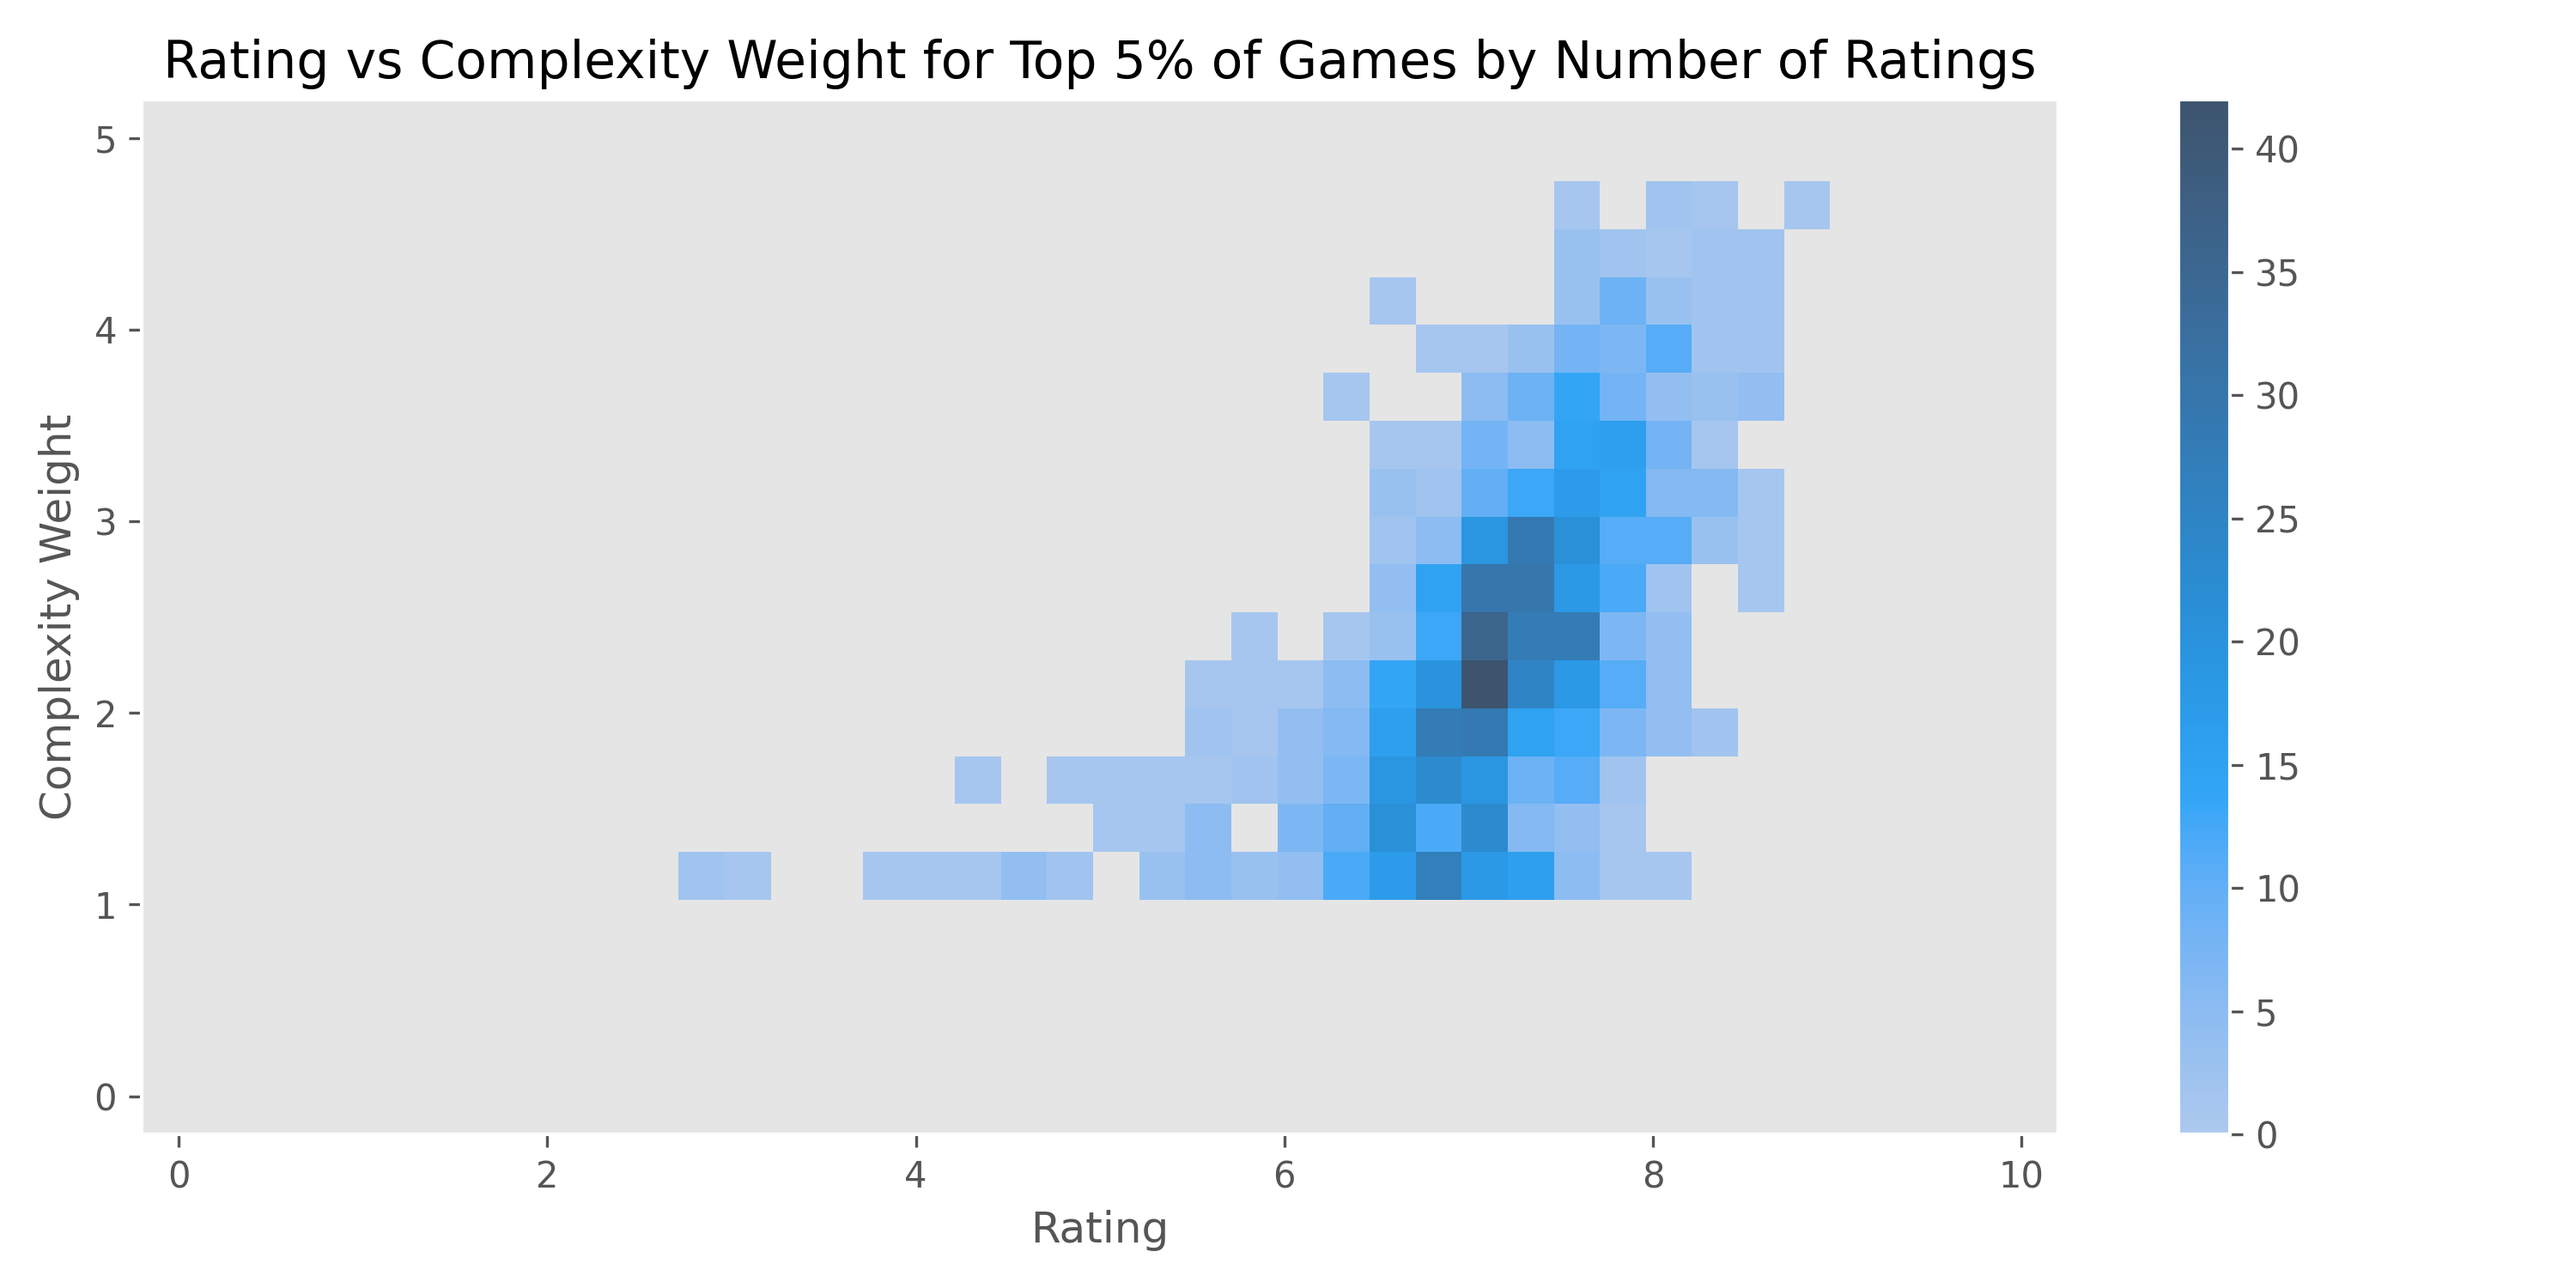
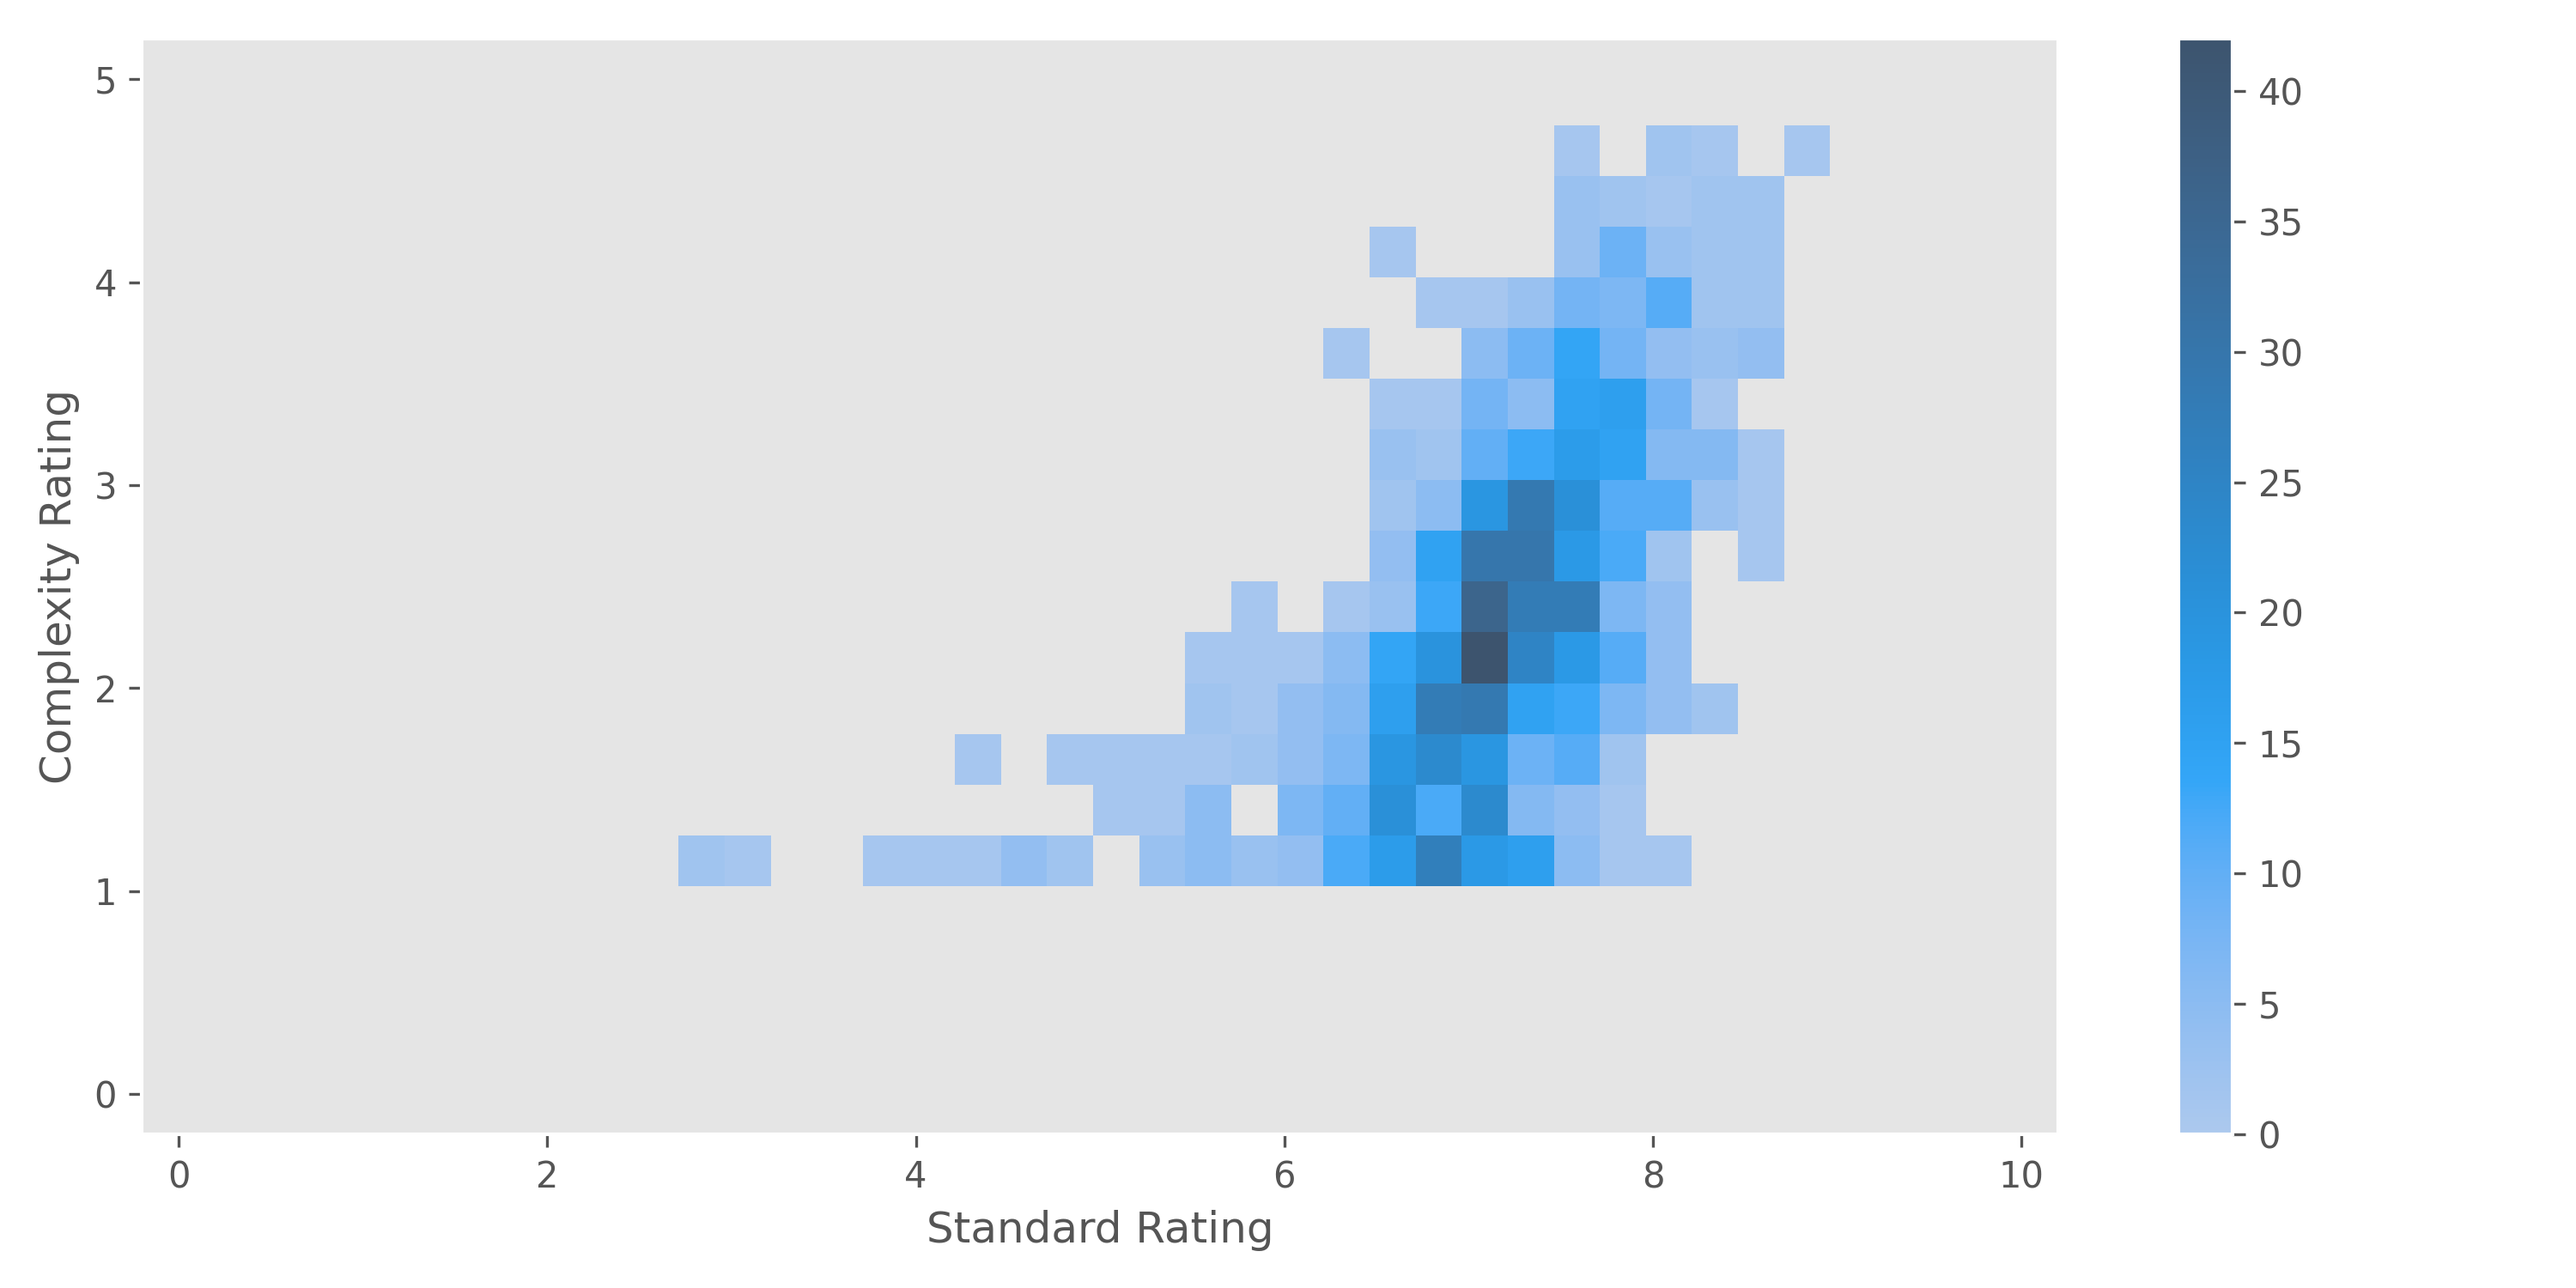
Update complexity vs ratings section

diff --git a/content/blog/boardgames_part_two/index.md b/content/blog/boardgames_part_two/index.md
@@ -351,7 +351,7 @@ Minimum ages of 0 are probably of mix of real values and missing value placehold
 
 [![Histogram of minimum ages for boardgames.](images/age_histogram.png)](images/age_histogram.png)
 
-### Ratings
+### Ratings {#ratings}
 There are a number of data columns related to user ratings of the boardgames,
 which I've prefixed with `rating_`. Here's a description each column:
 
@@ -411,42 +411,39 @@ This could be a contributor to the sharper uptick post-2020.
 If we had to further investigate the reasons behind this uptick, we could gather data on individual reviews per game. For example, if we wanted to see if early adopters of a game tend to rate a game higher, we could see how the ratings for a game changes over time.
 
 
-### Complexity vs Ratings?
+### Are higher ratings a result of increased complexity?
+As we saw [above](#ratings), standard ratings (`ratings_mean`) is moderately correlated with the complexity ratings (`ratings_weights_average`) with a Pearson's correlation coefficient of 0.48.
 
-- Since there is a correlation between ratings and xx
-- One of the most correlationed
-- with yada yada correlation
-- Let's take a look
+Let's take a look at what this looks like
+by plotting a 2D histogram of 
+standard ratings vs complexity ratings.
 
-There is a slight trend.
-Maybe I could plot some sort of line, and get the slope.
+![](images/rating_v_complexity_hist2d.png "Histogram of standard ratings vs complexity ratings. Colour scale represents the count of games in each bin. Note: complexity ratings of 0 indicate that the game has no complexity rating, and these games comprise about 2.5% of all games.")
 
-Below I have the all the rated games,
-as well as the top 5% by number of standard ratings.
-
-[![](images/rating_v_complexity_hist2d.png)](images/rating_v_complexity_hist2d.png)
-
-Top 5%.
-[![](images/rating_v_complexity_top5per_hist2d.png)](images/rating_v_complexity_top5per_hist2d.png)
+There appears to indeed be a slight positive association between the two sets of ratings.
 
 
-Is there a trend of complexity over time?
-It's hard to tell, because it's not obvious.
-First of all, the median number of complexity ratings is small.
-Though this increases for the top 5% of games (by number of standard ratings).
+This trend also holds when only considering the top 5% of games by number of standard ratings.
 
-There is not an obvious trend in the top 5%.
-All games the median rating is being drawn from like
-5 ratings, so somewhat wary, since it's discrete values.
-
-![](images/complexity_rating_vs_time.png)
+![](images/rating_v_complexity_top5per_hist2d.png "Histogram of standard ratings vs complexity ratings, for top 5% of games by number of standard ratings.")
 
 
-![](images/complexity_n_per_year.png)
+Given that standard ratings have increased in the 2010s,
+we can also see if complexity ratings have increased concurrently.
 
 
+![](images/complexity_rating_vs_time.png "Median complexity ratings by year. Bars indicate number of games with complexity ratings.")
 
+It appears that an increasing in the 2010s is not obvious in either the top 5% or in all games. The spike in 2022/2023 is again probably some sort of bias from the smaller number of very recent games.
+
+However, note that the median rating is actually generated from a small number of individual ratings (often <10):
+
+![](images/complexity_n_per_year.png "Median number of complexity ratings per game, by year.")
+
+
+### Quick look at ratings vs other factors.
 ## Discussion
+
 - We are probably in the golden age of board games
 in the sheer amount, and there appears to be an increase in quality.
     - although the increase in ratings in unknown.
